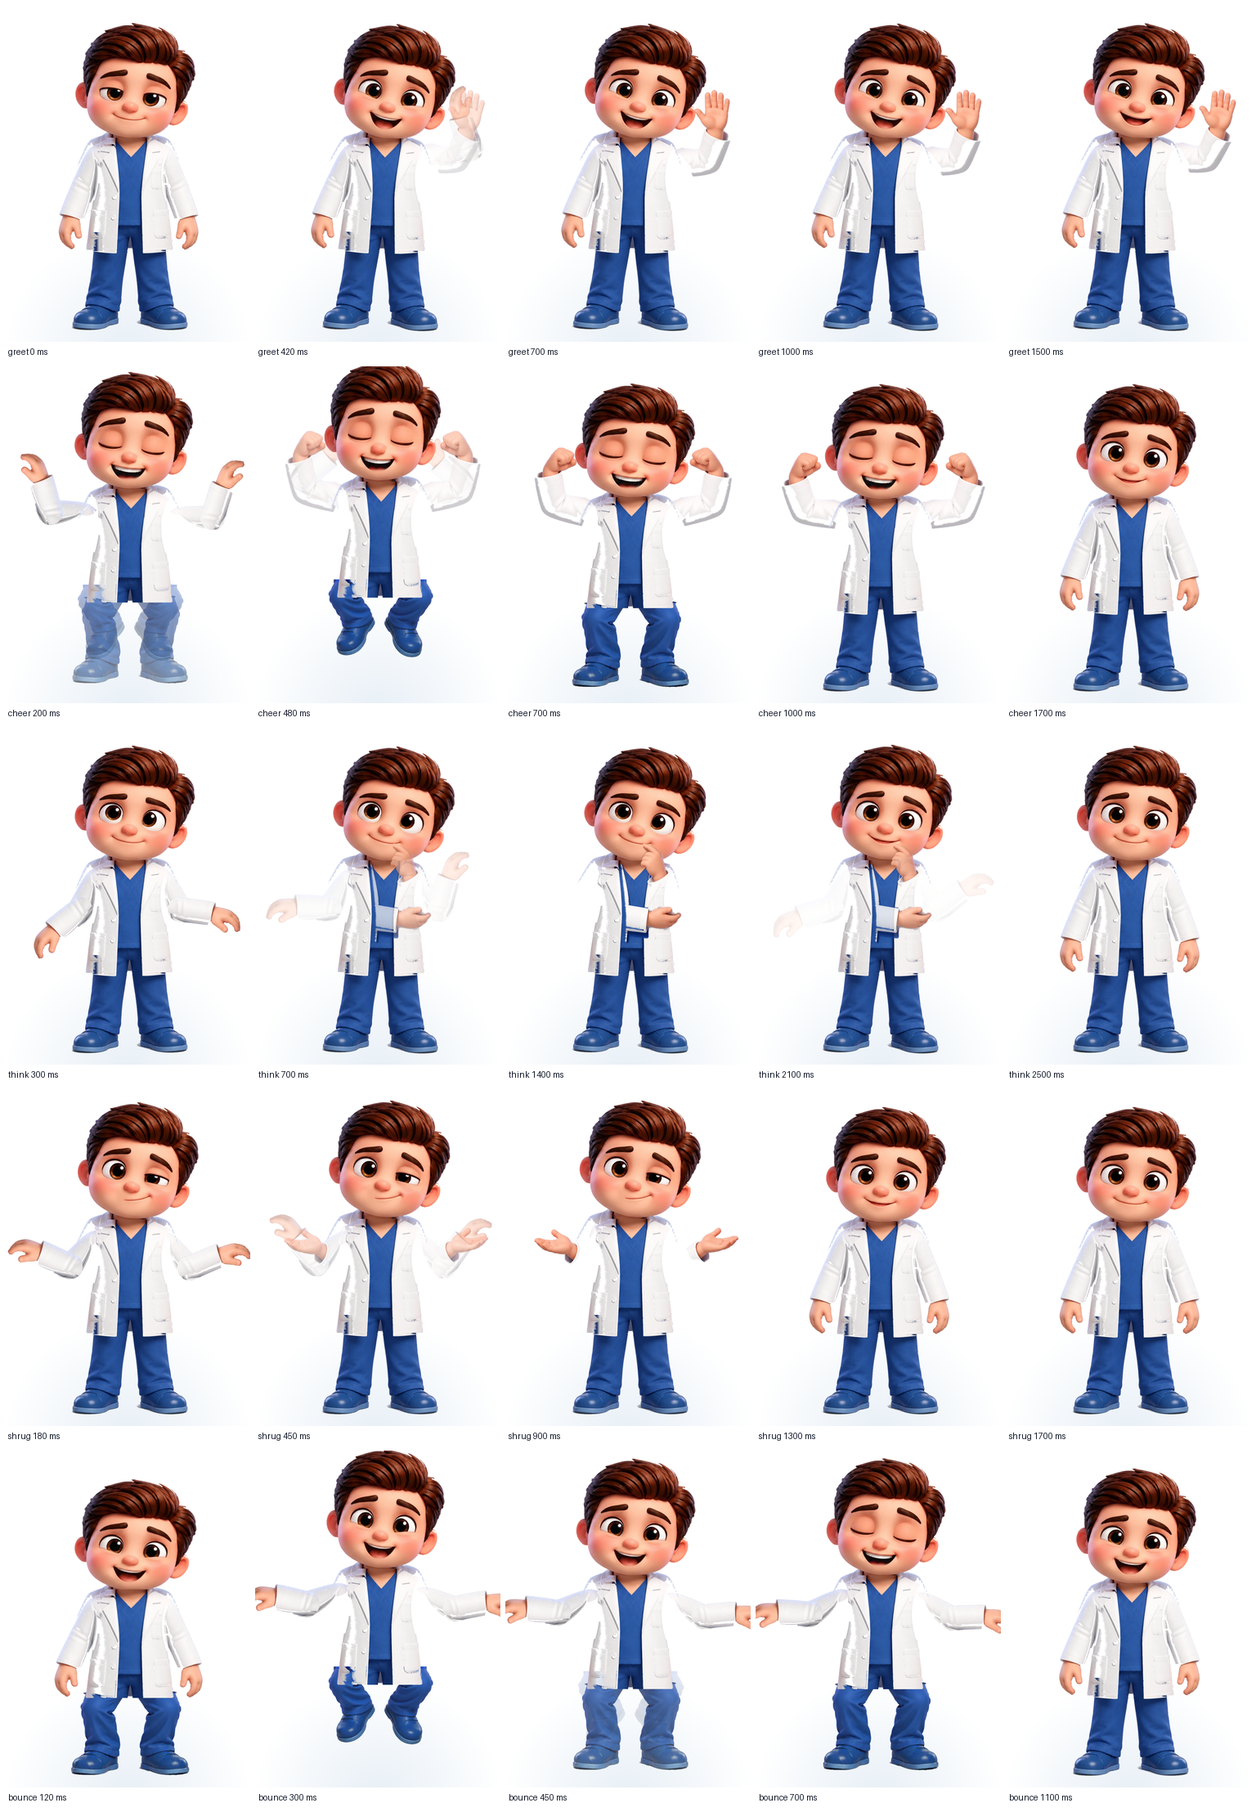
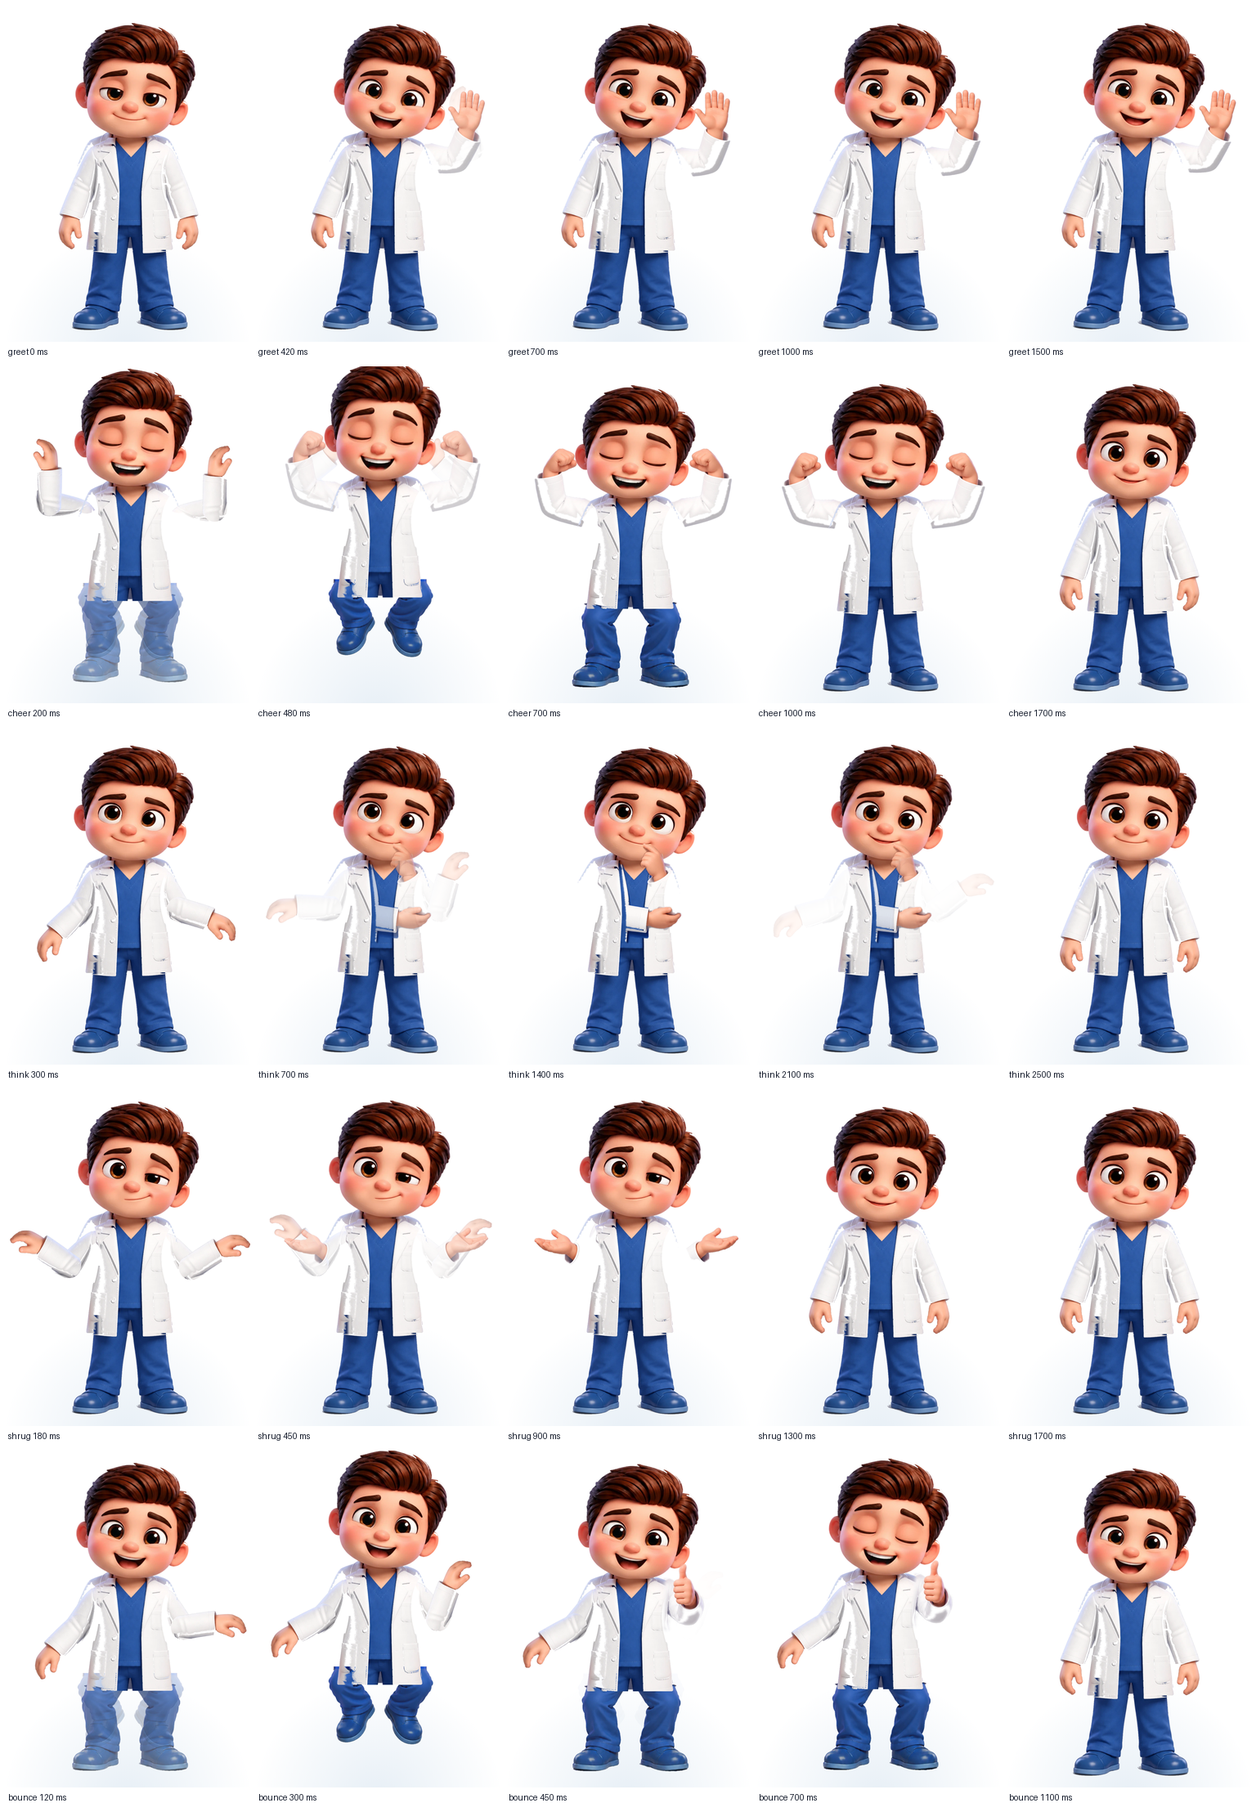
Dr. Smiley full body: the drawn thumbs-up at the top of the quiz bounce
Jose's thumbs-up.png (made from the jump picture, 6 px off the master).
Its sleeve lies over the coat, where colour cannot tell sleeve from coat,
so cutframes.py cuts it as a feathered band of the picture (band: True, a
6 px feather that melts into the coat beneath; the shifted edge now
filled with background, which a 6 px shift had left black) and the rig
draws it in front. bounce folds one cutout arm up during the hop, swaps
the drawn thumbs-up in at the top (as drawn or mirrored), pushes it up a
little on the second hop and hands back at the settle. Every drawing the
acting needs is in; point and clipboard wait for a use.

Checks: body-rig.cjs 80 (23 layers; bounce shows the thumbs-up; ack,
wink, wince and the walk stay on the cutout pieces). The acting sheet
redone. Docs: dr-smiley.md, prompts.md, CLAUDE.md file map, tests/README,
PLAN, the handoff. Nothing in the app changes, so nothing in the User Guide.

Claude-Session: https://claude.ai/code/session_01MzzKk7TtNgDdosy1MaAQ5X

diff --git a/drsmiley/body.js b/drsmiley/body.js
@@ -48,6 +48,8 @@ const DR_BODY = {
     'fist-pump': { box: [121, 361, 276, 348], arms: ['L'], layer: 'back', at: { a: 110, f: 100 }, pivot: [353, 630] },
     think:       { box: [352, 497, 274, 445], arms: ['L', 'R'], layer: 'front', at: { a: 18, f: 128, a2: 10, f2: 60 }, pivot: [353, 630] },
     shrug:       { box: [95, 568, 892, 398], arms: ['L', 'R'], layer: 'back', at: { a: 28, f: 95, a2: 28, f2: 95 }, pivot: [556, 630] },
+    // Cut as a feathered band of the picture (its sleeve lies over the coat), so it is drawn in front.
+    'thumbs-up': { box: [239, 509, 197, 306], arms: ['L'], layer: 'front', at: { a: 20, f: 120 }, pivot: [353, 630] },
     // The leg plates: both legs whole, in place of the two cutout legs (no mirror; `frameLegs` names one).
     crouch:      { box: [292, 990, 506, 425], legs: true, layer: 'legs', pivot: [556, 1040] },
     jump:        { box: [315, 990, 463, 328], legs: true, layer: 'legs', pivot: [556, 1040] },
@@ -347,21 +349,22 @@ const DR_BODY_PERF = {
       [j(260), { face: 'rest' }, 'out'],
     ], still: { lift: -10, head: s * 4, aL: P.a, aR: P.a2, fL: P.f, fR: P.f2, [FR]: 'shrug', face: 'doubt', brow: 'doubt' }, stillMs: 1000 };
   },
-  // A right answer: a happy hop on the drawn crouch and jump, a smaller second
-  // hop. The cutout arms rise only a little (past about 25 degrees the shoulder
-  // cap comes out from under the coat); a drawn thumbs-up takes the top of the
-  // hop once Jose draws it (prompts.md).
+  // A right answer: a happy hop on the drawn crouch and jump, the drawn
+  // thumbs-up (one side, as drawn or mirrored) from the top of the hop through
+  // a smaller second hop. The other cutout arm rises only a little (past about
+  // 25 degrees the shoulder cap comes out from under the coat).
   bounce(mode){
     const R = drBodyRand, j = (ms, k) => Math.round(ms * (1 + (R() * 2 - 1) * (k || .14))), k = mode === 'focused' ? .5 : 1, jump = mode === 'focused' ? 0 : 1;
+    const side = R() < .5 ? 'L' : 'R', s = side === 'L' ? -1 : 1, A = 'a' + side, F = 'f' + side, O = side === 'L' ? 'R' : 'L', FR = 'frame' + side, T = DR_BODY.pose['thumbs-up'].at;
     return { beats: [
-      [j(150), { frameLegs: 'crouch', sy: 1 - .035 * k, sx: 1 + .017 * k, lift: 5 * k, face: 'smile1' }, 'in'],                              // the drawn crouch
-      [j(230), { frameLegs: jump ? 'jump' : 'crouch', sy: 1 + .035 * k, sx: 1 - .017 * k, y: -34 * jump, aL: 22 * k, aR: 22 * k, fL: 24 * k, fR: 24 * k, lift: -4 * k, face: 'smile', brow: 'up' }, 'snap'],   // the drawn jump
-      [j(170), { frameLegs: 'crouch', y: 0, sy: 1 - .03 * k, sx: 1 + .015 * k, lift: 6 * k, aL: 14 * k, aR: 14 * k }, 'in'],
-      [j(200), { sy: 1 + .015 * k, sx: 1 - .007 * k, y: -22 * jump, lift: -2 * k, aL: 20 * k, aR: 20 * k, face: 'laughB' }, 'snap'],         // a smaller second hop, knees still bent
-      [j(160), { y: 0, sy: 1 - .015 * k, sx: 1 + .007 * k, lift: 3 * k }, 'in'],
-      [j(340), { frameLegs: '', sy: 1, sx: 1, lift: 0, aL: 0, aR: 0, fL: 0, fR: 0, face: 'smile', brow: 'rest' }, 'spring'],
+      [j(150), { frameLegs: 'crouch', sy: 1 - .035 * k, sx: 1 + .017 * k, lift: 5 * k, head: -s * 1 * k, face: 'smile1' }, 'in'],                              // the drawn crouch
+      [j(230), { frameLegs: jump ? 'jump' : 'crouch', sy: 1 + .035 * k, sx: 1 - .017 * k, y: -34 * jump, [A]: T.a, [F]: T.f, ['a' + O]: 18 * k, ['f' + O]: 24 * k, head: s * 2.5 * k, lift: -4 * k, face: 'smile', brow: 'up' }, 'snap'],   // the drawn jump, the arm folding up
+      [j(170), { [FR]: 'thumbs-up', frot: 0, frameLegs: 'crouch', y: 0, sy: 1 - .03 * k, sx: 1 + .015 * k, lift: 6 * k, ['a' + O]: 12 * k }, 'in'],            // the drawn thumbs-up takes over at the top
+      [j(200), { sy: 1 + .015 * k, sx: 1 - .007 * k, y: -22 * jump, lift: -2 * k, frot: -s * 5 * k, head: s * 3 * k, face: 'laughB' }, 'snap'],         // a smaller second hop, knees still bent, the thumb pushed up
+      [j(160), { y: 0, sy: 1 - .015 * k, sx: 1 + .007 * k, lift: 3 * k, frot: 0 }, 'in'],
+      [j(340), { [FR]: '', frameLegs: '', sy: 1, sx: 1, lift: 0, head: 0, aL: 0, aR: 0, fL: 0, fR: 0, face: 'smile', brow: 'rest' }, 'spring'],
       [j(280), { face: 'rest' }, 'out'],
-    ], still: { aL: 22, aR: 22, fL: 24, fR: 24, frameLegs: 'crouch', face: 'smile', brow: 'up' }, stillMs: 800 };
+    ], still: { [A]: T.a, [F]: T.f, [FR]: 'thumbs-up', ['a' + O]: 12, frameLegs: 'crouch', head: s * 2.5, face: 'smile', brow: 'up' }, stillMs: 800 };
   },
   // A wrong answer: a wince, drawn in and down, then a caring smile.
   wince(mode){

diff --git a/docs/art/dr-smiley-body/layers/cutframes.py b/docs/art/dr-smiley-body/layers/cutframes.py
@@ -1,4 +1,4 @@
-# Cut the drawn poses (docs/art/dr-smiley-body/{wave,fist-pump,think,shrug,crouch,jump}.png, Jose, 2026-10-23)
+# Cut the drawn poses (docs/art/dr-smiley-body/{wave,fist-pump,think,shrug,thumbs-up,crouch,jump}.png, Jose, 2026-10-23)
 # into frames on the master grid: drsmiley/body/pose-<name>.webp + poses.json (their boxes), and
 # preview-frames.png. Content changes only: coat over coat is the same coat, shaded a little
 # differently, so it is left to body.webp. Run from anywhere: python3 -I cutframes.py (needs scipy).
@@ -18,25 +18,35 @@ POSES={
  'fist-pump': dict(region=lambda: (xx<450)&(yy>300)&(yy<1100)&~((yy<578)&(xx>318)), offset=(0,0)),
  'think':     dict(region=lambda: (xx>280)&(xx<800)&(yy>488)&(yy<1000), offset=(4,0)),
  'shrug':     dict(region=lambda: (yy>540)&(yy<1100), offset=(4,0)),
+ # made from the jump picture, so the legs are tucked: only the arm's band is read
+ # made from the jump picture, so the legs are tucked: only the arm's band is read; its
+ # sleeve lies over the coat, so coat over coat is kept here and the band kept narrow
+ # (band: everything of the figure inside it, feathered, since colour cannot tell that sleeve from the coat)
+ 'thumbs-up': dict(region=lambda: (xx>236)&(xx<420)&(yy>496)&(yy<800)&~((yy<578)&(xx>365)), offset=(6,0), band=True),
 }
 res={}
 for name,cfg in POSES.items():
     im=Image.open(D+name+'.png').convert('RGB')
     dx,dy=cfg['offset']
-    if dx or dy: im=im.transform(im.size, Image.AFFINE, (1,0,-dx,0,1,-dy), Image.BICUBIC)  # shift by (dx,dy) so it lands on the master
+    fill=tuple(int(v) for v in np.median(np.asarray(im)[20:120,20:120].reshape(-1,3),0))
+    if dx or dy: im=im.transform(im.size, Image.AFFINE, (1,0,-dx,0,1,-dy), Image.BICUBIC, fillcolor=fill)  # shift by (dx,dy) so it lands on the master; the edge filled with background
     P=np.asarray(im).astype(float); aP=key(P)
     diff=np.abs(P-M).sum(2)
     white=lambda A: (A.min(2)>140)&((A.max(2)-A.min(2))<22)   # the coat, lit or shaded (skin, scrubs and hair are coloured or dark)
     coatM=white(M)&(alphaM>0.5); coatP=white(P)&(aP>0.5)
     # content changes only: coat-white over coat-white is the same coat, shaded a little differently
-    mask=(diff>60)&(aP>0.5)&cfg['region']()&~(coatM&coatP)
-    mask=ndi.binary_opening(mask,iterations=2)
-    lab,n=ndi.label(mask); sizes=ndi.sum(mask,lab,range(1,n+1))
-    keep=np.isin(lab,[i+1 for i,s in enumerate(sizes) if s>1500]); mask=keep
-    mask=ndi.binary_closing(mask,iterations=3)
-    holes=ndi.binary_fill_holes(mask)&~mask; mask|=holes&~coatM
-    mask=ndi.binary_dilation(mask,iterations=2)
-    soft=ndi.gaussian_filter(mask.astype(float),1.5)
+    if cfg.get('band'):
+        mask=(aP>0.5)&cfg['region']()
+        soft=ndi.gaussian_filter(mask.astype(float),6)   # a wide feather: the band's edge melts into the coat beneath
+    else:
+        mask=(diff>60)&(aP>0.5)&cfg['region']()&~(coatM&coatP)
+        mask=ndi.binary_opening(mask,iterations=2)
+        lab,n=ndi.label(mask); sizes=ndi.sum(mask,lab,range(1,n+1))
+        keep=np.isin(lab,[i+1 for i,s in enumerate(sizes) if s>1500]); mask=keep
+        mask=ndi.binary_closing(mask,iterations=3)
+        holes=ndi.binary_fill_holes(mask)&~mask; mask|=holes&~coatM
+        mask=ndi.binary_dilation(mask,iterations=2)
+        soft=ndi.gaussian_filter(mask.astype(float),1.5)
     a=np.clip(soft,0,1)*aP
     rgba=np.dstack([P,a*255]).astype(np.uint8); fr=Image.fromarray(rgba,'RGBA'); bb=fr.getbbox()
     fr.crop(bb).save(OUT+'pose-'+name+'.webp',quality=92,method=6)
@@ -48,7 +58,8 @@ for name,cfg in POSES.items():
 LEGS={'crouch':(4,0),'jump':(4,0)}
 for name,(dx,dy) in LEGS.items():
     im=Image.open(D+name+'.png').convert('RGB')
-    if dx or dy: im=im.transform(im.size, Image.AFFINE, (1,0,-dx,0,1,-dy), Image.BICUBIC)
+    fill=tuple(int(v) for v in np.median(np.asarray(im)[20:120,20:120].reshape(-1,3),0))
+    if dx or dy: im=im.transform(im.size, Image.AFFINE, (1,0,-dx,0,1,-dy), Image.BICUBIC, fillcolor=fill)
     P=np.asarray(im).astype(float); aP=key(P)
     sat=P.max(2)-P.min(2); dark=P.max(2)<90
     mask=(aP>0.5)&(yy>=990)&((sat>25)|dark)
@@ -75,7 +86,7 @@ def piece(k):
     im=Image.open(OUT+k+'.webp').convert('RGBA'); return im,bx[k]
 head=Image.open(OUT+'head.webp').convert('RGBA'); s=rig['head']['scale']; hx,hy=rig['head']['at']
 head=head.resize((round(480*s),round(600*s)),Image.LANCZOS)
-HIDES={'wave':['l'],'fist-pump':['l'],'think':['l','r'],'shrug':['l','r']}
+HIDES={'wave':['l'],'fist-pump':['l'],'think':['l','r'],'shrug':['l','r'],'thumbs-up':['l']}
 def compose(name=None):
     out=Image.new('RGBA',(W,H),(255,255,255,255))
     legs=name in LEGS
@@ -88,7 +99,7 @@ def compose(name=None):
     if name and not legs:
         f=Image.open(OUT+'pose-'+name+'.webp').convert('RGBA'); b=res[name]['box']; out.alpha_composite(f,(b[0],b[1]))
     return out
-names=['rest','wave','fist-pump','think','shrug','crouch','jump']
+names=['rest','wave','fist-pump','think','shrug','thumbs-up','crouch','jump']
 sheet=Image.new('RGB',(len(names)*470,780),(255,255,255)); d=ImageDraw.Draw(sheet)
 for i,n in enumerate(names):
     sheet.paste(compose(None if n=='rest' else n).convert('RGB').crop((60,0,1040,1470)).resize((460,690),Image.LANCZOS),(i*470+5,4)); d.text((i*470+200,740),n,fill=(21,28,44))

diff --git a/CLAUDE.md b/CLAUDE.md
@@ -38,7 +38,7 @@ between assignments.
 | `pins/*.webp` | 41 files | One pre-cut 192 px pin each, named by key (`pins/oncology.webp`) |
 | `pin-icons-sheet.webp` | — | The 8 × 8 sprite sheet behind `.pin-sprite` (1024², 381 KB) |
 | `drsmiley/*.webp` | 7 files | Dr. Smiley: `base` (his calm head and shoulders, forehead without brows), `face` (a strip of 30 frames of his eyes and mouth, cut from Jose's drawn expression sheets and fitted onto that same face; the last four, surprised, sad, worried and doubt, from `docs/art/dr-smiley-faces/`), `brow-l`/`brow-r` (his brows, moving on their own: `DR_BROWS`), `hat-cap`/`hat-mirror`/`hat-grad` (rank outfits). See `drSmileyArt()`, the animation engine (`DrAnim`, `drAnim()`, and the older names `drFacePlay()`/`drFaceIdle()`/`drFaceTalk()` now built on it) and `smileyAccessory()` in `index.html`. On Home, `home-polish.js` draws his lanyard as live cords over him |
-| `drsmiley/body/` | 16 files | Dr. Smiley full-length, cut by code from Jose's standing picture (`docs/art/dr-smiley-body/`): the app's own head on the base grid, the armless body, four arm pieces, two legs, `rig.json` (pivots), and his drawn poses as frames (`pose-wave`, `pose-fist-pump`, `pose-think`, `pose-shrug`, the leg plates `pose-crouch`, `pose-jump`; boxes in `poses.json`; cut from Jose's ChatGPT pictures by `layers/cutframes.py`). Not shown in the app yet (`docs/features/dr-smiley.md`, "Full body") |
+| `drsmiley/body/` | 17 files | Dr. Smiley full-length, cut by code from Jose's standing picture (`docs/art/dr-smiley-body/`): the app's own head on the base grid, the armless body, four arm pieces, two legs, `rig.json` (pivots), and his drawn poses as frames (`pose-wave`, `pose-fist-pump`, `pose-think`, `pose-shrug`, `pose-thumbs-up`, the leg plates `pose-crouch`, `pose-jump`; boxes in `poses.json`; cut from Jose's ChatGPT pictures by `layers/cutframes.py`). Not shown in the app yet (`docs/features/dr-smiley.md`, "Full body") |
 | `drsmiley/body.js` | — | The full-body rig: `drBodyArt()` (the layers as an SVG, each drawn pose as drawn and mirrored), `drBody()` (the joint engine; `frameL`/`frameR` swap a drawn pose in, `frot` wags it), `DR_BODY_PERF` (greet, ack, think, cheer, wink, shrug, bounce, wince, walk), `drBodyIdle` |
 | `drsmiley/body.html` | — | The viewer for his full-body acting, not linked from the app; Jose reviews it at `/drsmiley/body.html` before deciding where he stands full-length |
 | `city/*.webp` | 102 files | Your HUMC campus on CoreCHI Practice: the main entrance at golden hour as three depth layers (`sky`, `far`, `near`, slid for parallax) + each building's lit windows in tenths (pre-rendered 3D; `renderCampus`, `docs/mockups/cchi-city/`) |

diff --git a/tests/README.md b/tests/README.md
@@ -21,7 +21,7 @@ replaced by an in-memory stand-in seeded with the built-in glossary
 | `smiley-gaze.cjs` | Dr. Smiley's eyes, lean and moods |
 | `smiley-brows.cjs` | Dr. Smiley's brows: follow the face, held poses, Focused, Still |
 | `smiley-gestures.cjs` | Dr. Smiley's five performances, frame by frame |
-| `body-rig.cjs` | Dr. Smiley full-length (`drsmiley/body.js`, the viewer `drsmiley/body.html`): at rest the pieces compose back into Jose's picture; every performance stays inside the joints' limits, moves only transforms and ends at rest; the drawn poses (wave, two fists, the finger on the chin, the palms, the crouch and the jump) take over at the top of their gestures and hide the cutout arm or legs, and are hidden again at rest; Focused smaller; Still and reduced motion one held pose; the walk carries him sideways; the viewer fits a phone; nothing in the app links to it yet |
+| `body-rig.cjs` | Dr. Smiley full-length (`drsmiley/body.js`, the viewer `drsmiley/body.html`): at rest the pieces compose back into Jose's picture; every performance stays inside the joints' limits, moves only transforms and ends at rest; the drawn poses (wave, two fists, the finger on the chin, the palms, the thumbs-up, the crouch and the jump) take over at the top of their gestures and hide the cutout arm or legs, and are hidden again at rest; Focused smaller; Still and reduced motion one held pose; the walk carries him sideways; the viewer fits a phone; nothing in the app links to it yet |
 | `smiley-squash.cjs` | Dr. Smiley's squash and stretch: cheer and greet only, at most 4%, volume kept, never on what holds him, back to his drawn shape (also when interrupted), none in Focused, Still or where the picture itself leans |
 | `home-rest.cjs` | Home decor: petals (Chromium: one canvas per place from a worker; iPhone Safari: the old animated elements, no will-change; both keep falling, stop when scrolled away, rest under reduced motion) and heartline loop; the badge loop ends; the card ring glows on arrival only |
 | `dock-tuck.cjs` | Tab bar tuck and open: only transform and opacity move, the bar's own size never animates, nothing left behind, tucked sizes as before (Dr. Smiley's disc and tag included), turns around mid-move without a jump, instant under reduced motion. Also runs in WebKit in CI |

diff --git a/docs/features/dr-smiley.md b/docs/features/dr-smiley.md
@@ -210,8 +210,15 @@ one copy each (`legs: true`, no mirror), drawn right after the cutout legs.
 `frameLegs` names the one shown; both cutout legs hide meanwhile. `cheer`
 and `bounce` go crouch, then jump at the top of the hop (Focused keeps
 the crouch, never tucked feet on the ground), crouch again at the landing
-squash, then back. Not run yet: `thumbs-up`, `point`, `clipboard`,
-`body-noarms` and the rest of the table.
+squash, then back. **The thumbs-up** (the same evening, Jose's pick for the
+top of the quiz bounce): its sleeve lies over the coat, where colour cannot
+tell sleeve from coat, so `cutframes.py` cuts it as a feathered band of the
+picture (`band: True`, a 6 px feather melting into the coat beneath) and
+the rig draws it in front; `bounce` folds one cutout arm up during the hop
+and swaps the drawn thumbs-up in at the top (as drawn or mirrored), pushes
+it up a little on the second hop, and hands back at the settle. Not run
+yet: `point`, `clipboard`, `body-noarms` and the rest of the table;
+nothing needs them until he has a place in the app.
 
 Jose's standing picture (`docs/art/dr-smiley-body/body-master.png`) cut
 into layers by code (`docs/art/dr-smiley-body/layers/build.py`), since a

diff --git a/docs/art/dr-smiley-body/prompts.md b/docs/art/dr-smiley-body/prompts.md
@@ -9,10 +9,9 @@ cut into the rig (`layers/cutframes.py`, `drsmiley/body/pose-*.webp`;
 `preview-frames.png` shows them on the body, `preview-acting.png` mid
 performance). `crouch.png` and `jump.png` came next (made from the shrug
 picture, so their arms are out; only the legs are cut) and are in as the
-leg plates of the cheer and the quiz bounce. **Next to run:** `thumbs-up.png` (Jose's pick for the top of the quiz
-bounce, 2026-10-23; until it comes the bounce's cutout arms rise only a
-little, so the shoulder cap stays under the coat), then `point.png`,
-`clipboard.png`.
+leg plates of the cheer and the quiz bounce. `thumbs-up.png` came too (from the jump picture; only the arm is cut, as a
+feathered band) and is at the top of the quiz bounce. **Left in the table,
+not needed yet:** `point.png`, `clipboard.png`, `body-noarms.png`.
 
 Same workflow as `docs/art/dr-smiley-faces/prompts.md`: an image tool that
 edits a picture you upload (ChatGPT image editing or similar), one change

diff --git a/docs/handoff.md b/docs/handoff.md
@@ -54,9 +54,12 @@ came and are in as leg plates (`legs: true` in `DR_BODY.pose`, `frameLegs`
 in the pose, both cutout legs hidden meanwhile; the scrub blue shifted to
 the master's in `cutframes.py`) for `cheer` and `bounce`. The acting sheet:
 `layers/sheet.cjs` run from `tests/` (frames to a folder), tiled into
-`preview-acting.png`. Sent to Jose. Next from him: thumbs up, point,
-clipboard (arm frames, cut like the first four). The app still shows
-nothing full-length.
+`preview-acting.png`. Sent to Jose. The thumbs-up came last (cut as a
+feathered band, `band: True`, since its sleeve lies over the coat; drawn
+in front; the top of `bounce`). Every drawing the acting needs is in;
+point and clipboard wait for a use. Next: Jose picks where he stands
+full-length (the recommendation stays: Home greeting and the quiz, never
+the dock), then path 2 below. The app still shows nothing full-length.
 
 ## Decided 2026-10-23 (the chat after the one above): path 1, drawn poses
 

diff --git a/docs/PLAN.md b/docs/PLAN.md
@@ -74,9 +74,10 @@ under way, then what waits on Jose, then small leftovers.
    against the master, cut as frames (`layers/cutframes.py`,
    `drsmiley/body/pose-*.webp`), swapped in by the rig at the top of
    greet, cheer, think and shrug, mirrored for the other side; then crouch
-   and jump as leg plates for the cheer and the quiz bounce. Next from
-   Jose (`docs/art/dr-smiley-body/prompts.md`): thumbs up, point,
-   clipboard. Then where he stands full-length (his call, still open).
+   and jump as leg plates for the cheer and the quiz bounce, and the
+   thumbs-up at the top of the bounce. The drawings the acting needs are
+   all in; point and clipboard wait for a use. Next: where he stands
+   full-length (his call, still open).
    Nothing in the app shows him full-length until then.
 2. **Split `index.html`, phase 3: features to their own files**, one per
    pull request, leaves first, nothing else in flight (Jose, 2026-10-20).
